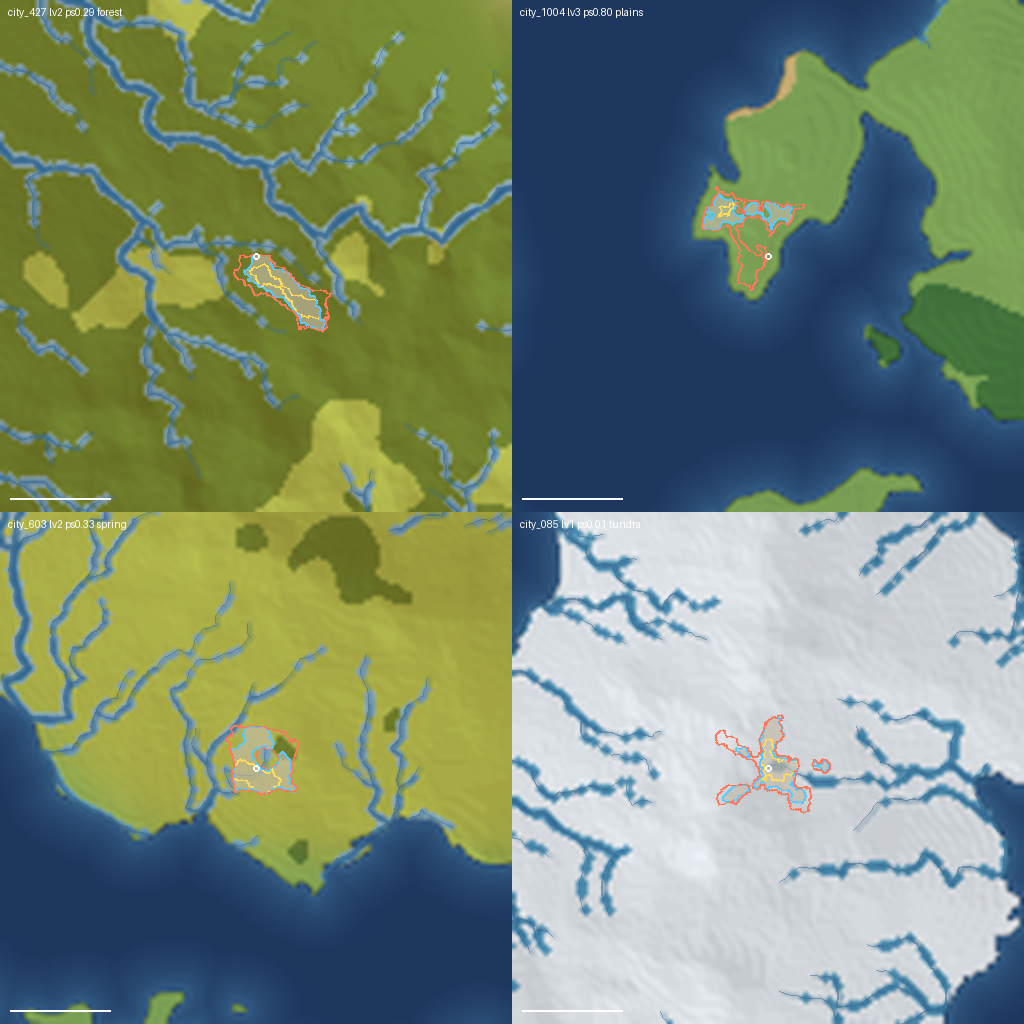
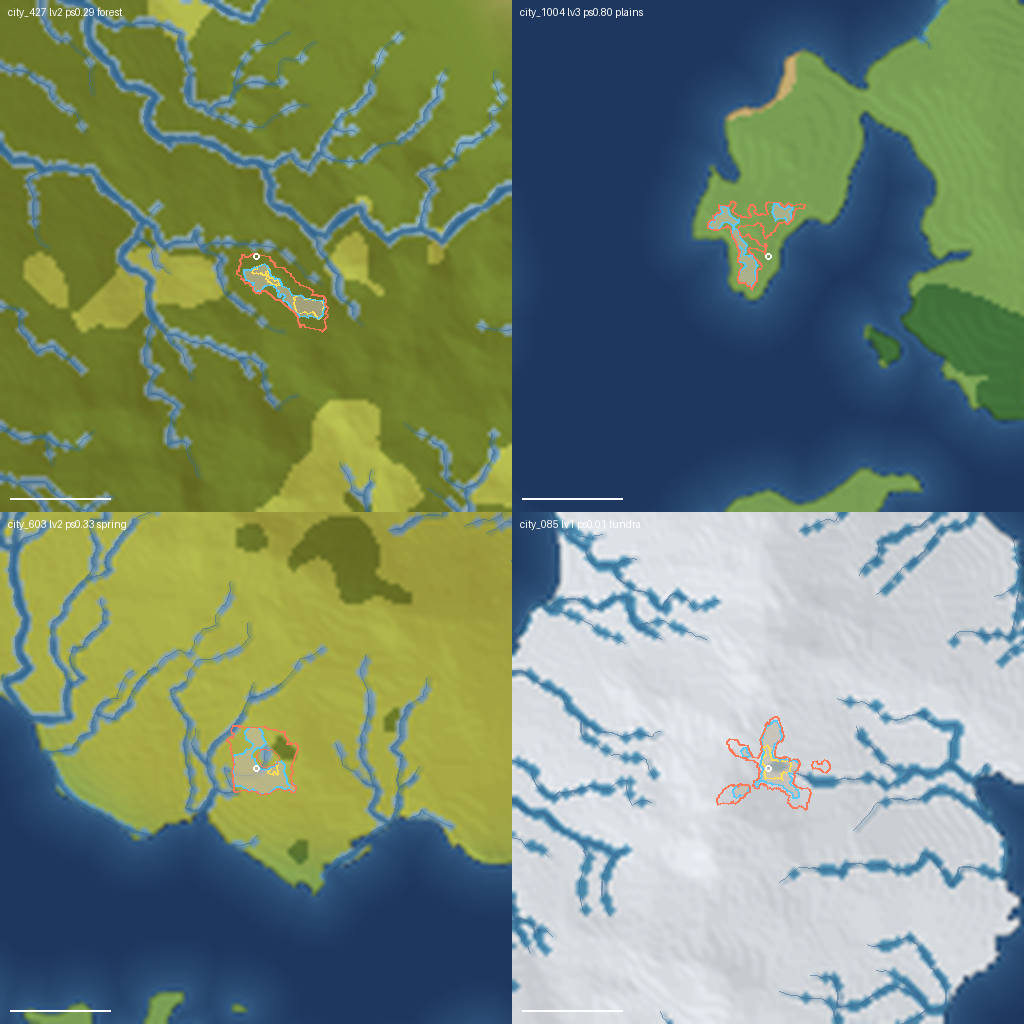
fix(worldgen): 剪影尺寸曲线对齐城市规模撒点图——R(ps)=8+30·ps@8192（=撒点 r=2+7.5·ps@2048 同式），剪影直径逐城等于点直径；视觉复核 1~2px 小村至 20px 大城悬殊分布、小村占绝对多数（取代面积线性映射的均一观感）

diff --git a/tools/worldgen/l1/blob_v2_generate.py b/tools/worldgen/l1/blob_v2_generate.py
@@ -65,12 +65,12 @@ def djb2(s: str) -> int:
 
 def r_ref_of(level, s, area_p, lv_bands):
     """尺度半径（归一化，创始人 2026-09-27 口径）：
-    A(s) = a_max·s 过零——面积严格与规模成正比、空城面积为 0；
-    半径开根号导出 R = sqrt(A/(πk))；不按 level 分带、不按下限垫底。
-    装不下时由 max_fill 顶格缩到地块装得下为止（随机形状随 τ 自然重采样）。"""
-    k = float(area_p.get("k", 0.9))
-    a_max = float(area_p.get("a_max_px2", 12000.0))
-    return math.sqrt(max(a_max * max(s, 0.0), 0.0) / (math.pi * k))
+    R(ps) = r0 + r1·ps（8192 级 = 撒点图 settle_preview_v2 的 r=2.0+7.5·ps@2048 ×4）——
+    剪影直径逐城等于城市规模撒点图的点直径（面积随规模平方放大，同撒点观感跨度）。
+    装不下时由 max_fill 顶格缩到地块装得下为止。"""
+    r0 = float(area_p.get("r0_px", 8.0))
+    r1 = float(area_p.get("r1_px", 30.0))
+    return r0 + r1 * max(s, 0.0)
 
 
 # ==================== 输入加载 ====================
